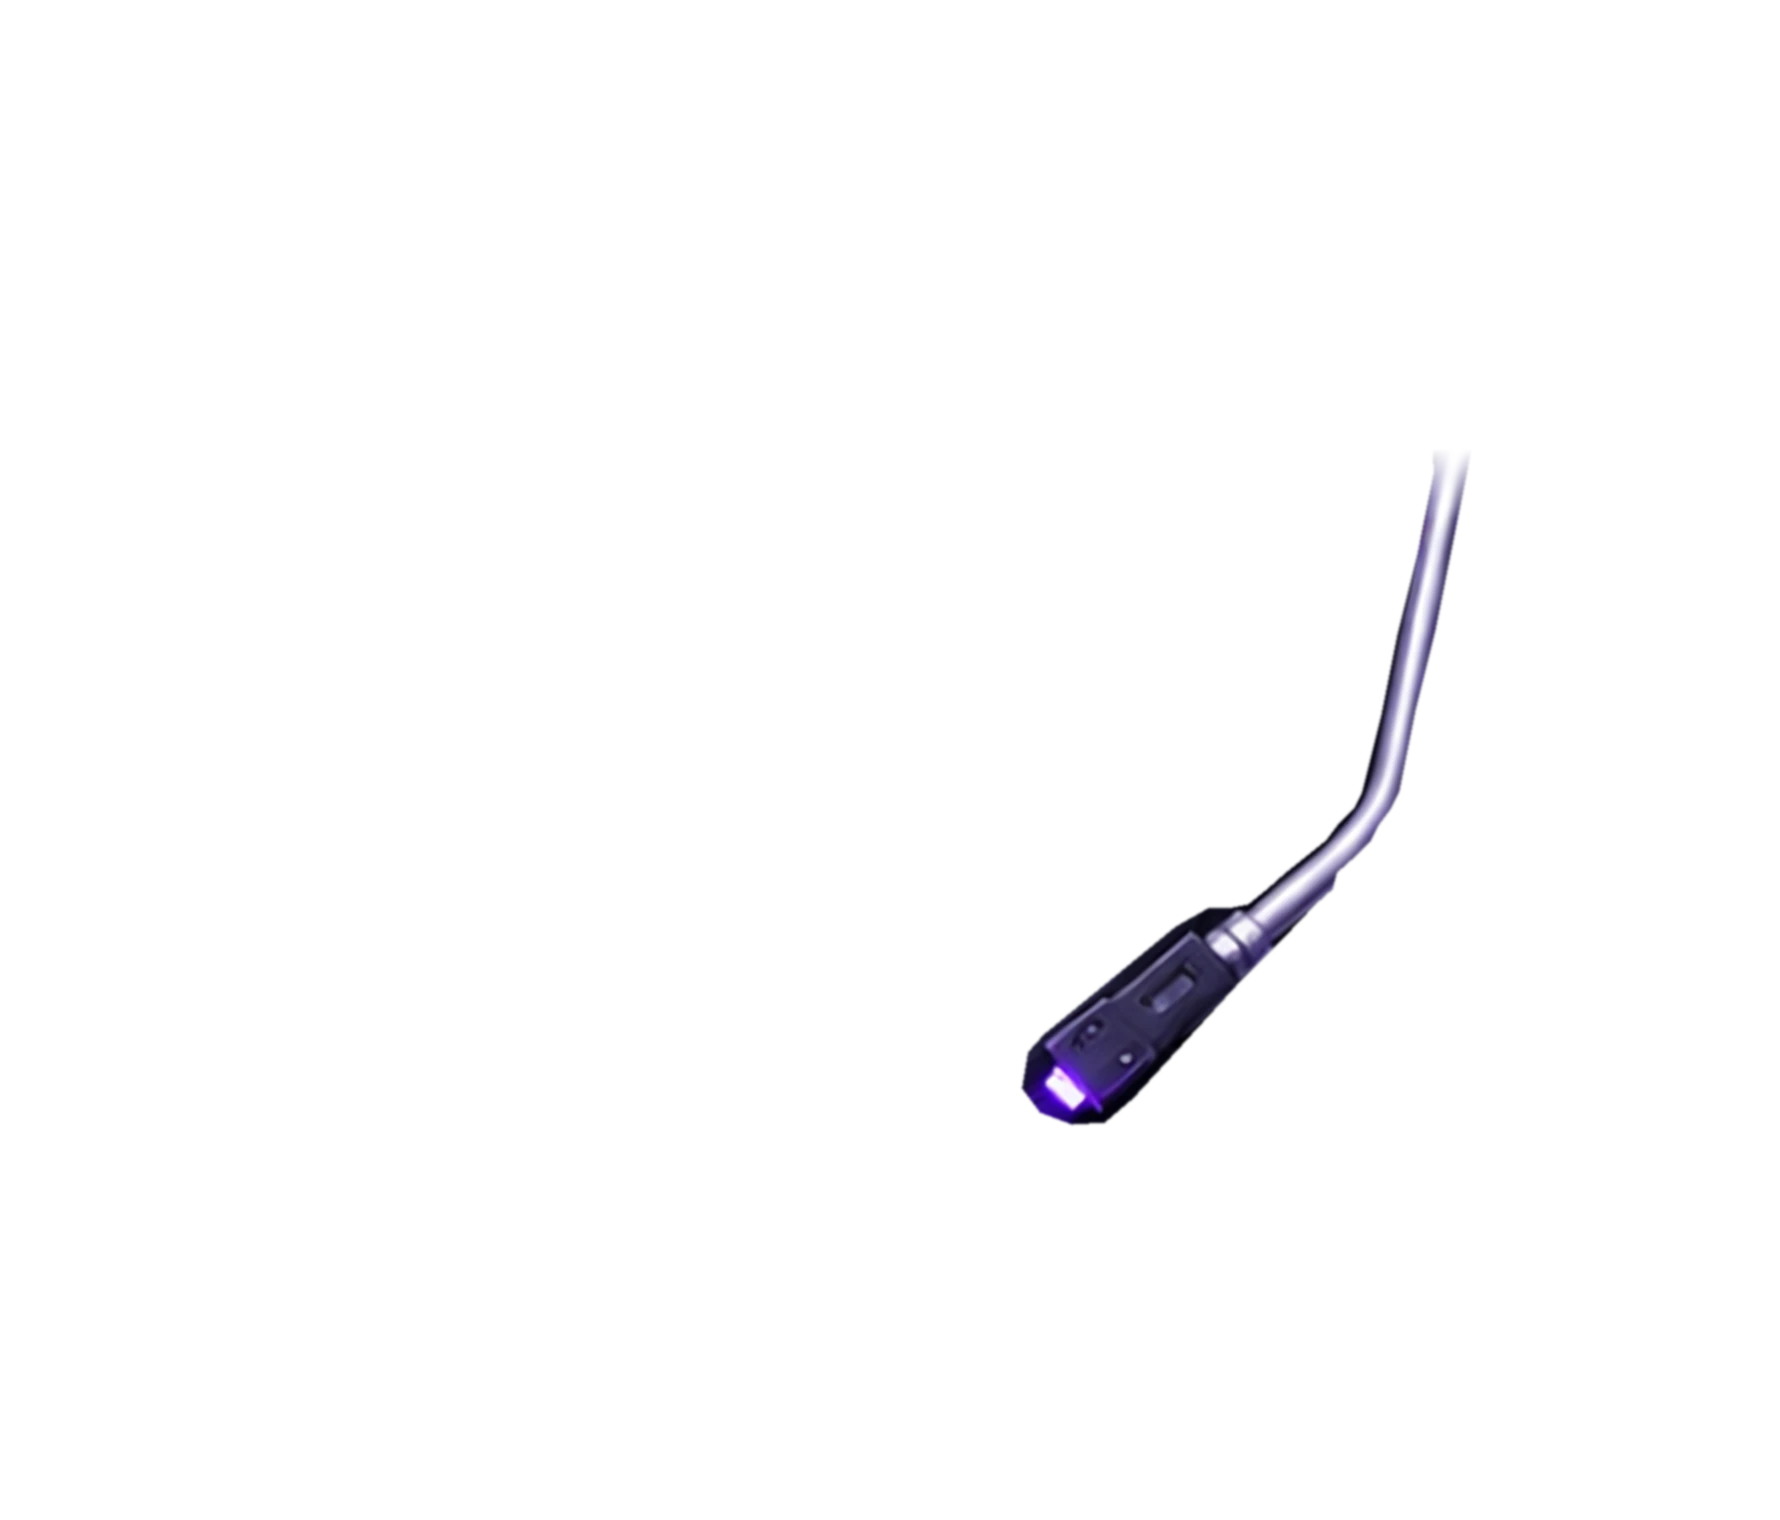
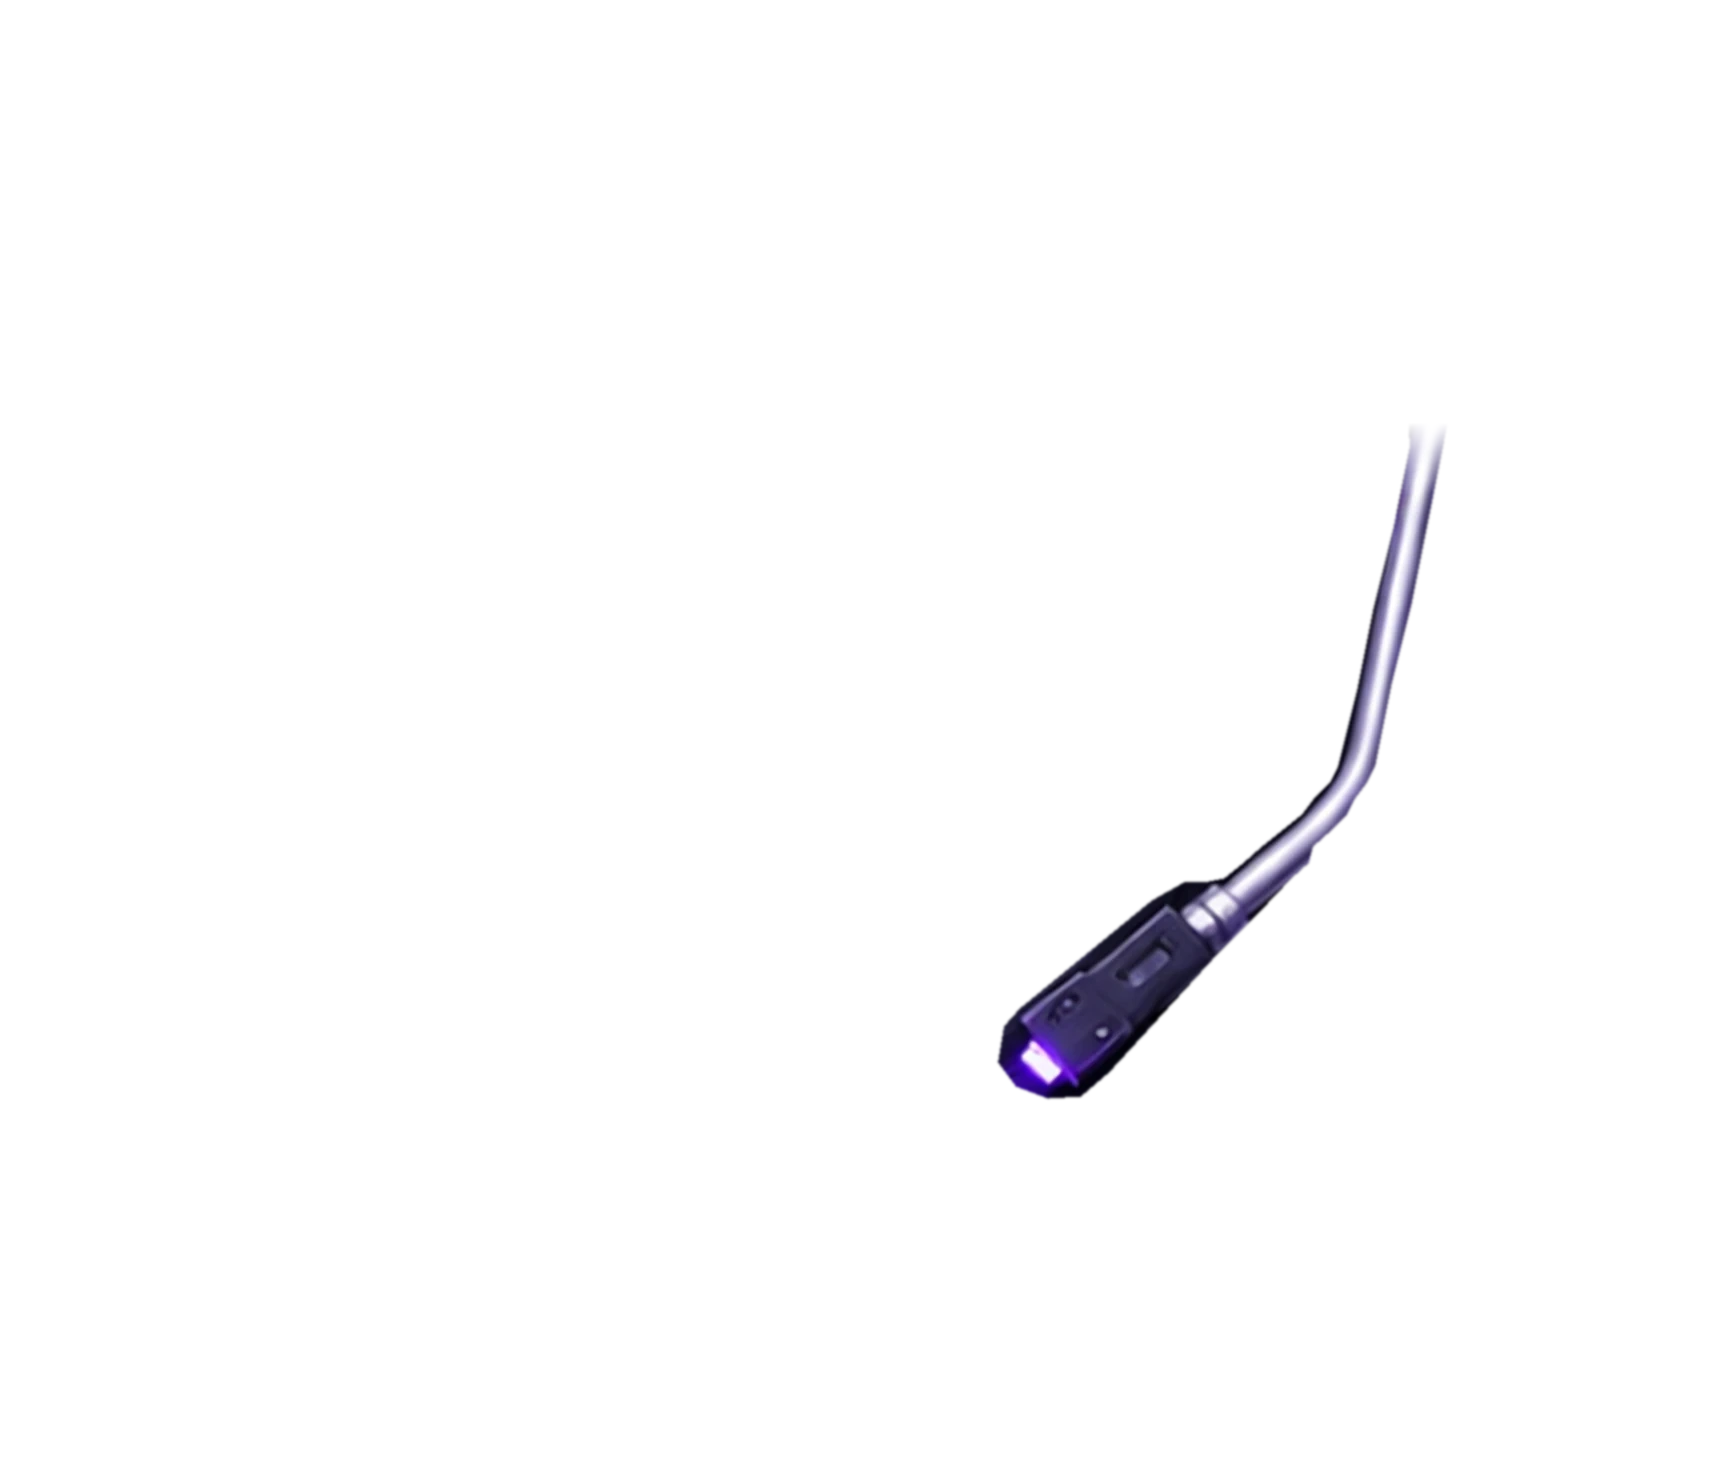
Swap in the new turntable pack with traced record clip.
Use the updated deck/arm webps and clip DsoLogo to the draft neon ring with a matching rim.

Changed region(s): [[0.5609, 0.2755, 0.8413, 0.7653]]

diff --git a/src/components/DraftTurntable.jsx b/src/components/DraftTurntable.jsx
@@ -3,9 +3,49 @@ import deckSrc from "../assets/dco-turntable-draft.webp";
 import armSrc from "../assets/dco-turntable-draft-arm.webp";
 import "./DraftTurntable.css";
 
+/*
+ * Record edge, traced from the draft's inner neon ring every 0.5°, smoothed,
+ * and inset by a constant gap. [x%, y%] of the deck image, one point per 2°.
+ */
+const RECORD_EDGE = [
+  [81.063, 46.824], [81.027, 48.343], [80.940, 49.859], [80.808, 51.368], [80.633, 52.872], [80.415, 54.367],
+  [80.153, 55.851], [79.843, 57.321], [79.483, 58.775], [79.075, 60.210], [78.621, 61.625], [78.123, 63.015],
+  [77.582, 64.383], [76.998, 65.723], [76.372, 67.036], [75.710, 68.320], [75.013, 69.575], [74.284, 70.804],
+  [73.524, 72.002], [72.734, 73.171], [71.915, 74.310], [71.064, 75.416], [70.184, 76.488], [69.273, 77.519],
+  [68.329, 78.510], [67.353, 79.455], [66.347, 80.349], [65.310, 81.194], [64.252, 81.997], [63.177, 82.761],
+  [62.085, 83.491], [60.979, 84.185], [59.855, 84.836], [58.714, 85.444], [57.555, 86.005], [56.381, 86.513],
+  [55.193, 86.969], [53.991, 87.375], [52.779, 87.729], [51.558, 88.034], [50.331, 88.292], [49.097, 88.501],
+  [47.858, 88.663], [46.617, 88.777], [45.373, 88.840], [44.128, 88.853], [42.884, 88.815], [41.643, 88.727],
+  [40.405, 88.592], [39.171, 88.410], [37.943, 88.184], [36.720, 87.913], [35.505, 87.598], [34.298, 87.239],
+  [33.102, 86.833], [31.916, 86.380], [30.743, 85.880], [29.584, 85.337], [28.438, 84.751], [27.306, 84.123],
+  [26.191, 83.450], [25.095, 82.732], [24.019, 81.971], [22.964, 81.165], [21.933, 80.314], [20.929, 79.417],
+  [19.957, 78.472], [19.017, 77.480], [18.106, 76.449], [17.221, 75.385], [16.361, 74.291], [15.528, 73.167],
+  [14.722, 72.011], [13.947, 70.823], [13.202, 69.605], [12.489, 68.358], [11.808, 67.083], [11.163, 65.778],
+  [10.560, 64.443], [10.000, 63.079], [9.486, 61.688], [9.021, 60.271], [8.604, 58.833], [8.233, 57.375],
+  [7.911, 55.899], [7.635, 54.409], [7.409, 52.908], [7.234, 51.395], [7.110, 49.875], [7.042, 48.351],
+  [7.027, 46.824], [7.064, 45.298], [7.153, 43.775], [7.289, 42.260], [7.472, 40.750], [7.700, 39.252],
+  [7.973, 37.764], [8.296, 36.291], [8.668, 34.836], [9.091, 33.402], [9.562, 31.992], [10.078, 30.605],
+  [10.634, 29.243], [11.234, 27.910], [11.883, 26.612], [12.585, 25.353], [13.334, 24.139], [14.118, 22.960],
+  [14.926, 21.811], [15.751, 20.686], [16.593, 19.585], [17.458, 18.513], [18.347, 17.473], [19.261, 16.467],
+  [20.201, 15.495], [21.162, 14.558], [22.144, 13.652], [23.143, 12.772], [24.159, 11.921], [25.196, 11.106],
+  [26.259, 10.335], [27.349, 9.620], [28.464, 8.960], [29.600, 8.354], [30.753, 7.796], [31.921, 7.283],
+  [33.102, 6.815], [34.294, 6.392], [35.498, 6.019], [36.713, 5.697], [37.936, 5.424], [39.166, 5.200],
+  [40.401, 5.023], [41.641, 4.890], [42.884, 4.803], [44.128, 4.764], [45.374, 4.772], [46.619, 4.830],
+  [47.862, 4.939], [49.102, 5.100], [50.337, 5.312], [51.565, 5.575], [52.785, 5.888], [53.996, 6.250],
+  [55.197, 6.662], [56.386, 7.122], [57.562, 7.627], [58.723, 8.179], [59.868, 8.778], [60.993, 9.430],
+  [62.095, 10.136], [63.173, 10.894], [64.228, 11.694], [65.268, 12.521], [66.300, 13.367], [67.325, 14.232],
+  [68.336, 15.127], [69.321, 16.069], [70.271, 17.062], [71.188, 18.100], [72.077, 19.176], [72.939, 20.287],
+  [73.766, 21.438], [74.552, 22.631], [75.292, 23.867], [75.985, 25.140], [76.635, 26.447], [77.241, 27.784],
+  [77.807, 29.146], [78.332, 30.532], [78.814, 31.940], [79.243, 33.373], [79.612, 34.829], [79.919, 36.304],
+  [80.178, 37.791], [80.408, 39.283], [80.620, 40.778], [80.808, 42.279], [80.954, 43.788], [81.041, 45.304],
+];
+
+const RECORD_CLIP = `polygon(${RECORD_EDGE.map(([x, y]) => `${x}% ${y}%`).join(", ")})`;
+const RIM_PATH = `M${RECORD_EDGE.map(([x, y]) => `${(x * 17.33).toFixed(1)} ${(y * 14.7).toFixed(1)}`).join("L")}Z`;
+
 /**
  * Draft 1 turntable with the existing <DsoLogo /> spinning on the platter.
- * Layers: deck → spinning logo → tonearm. Frame clips to clean rounded edges.
+ * Layers: deck → spinning logo (clipped to record edge + rim) → tonearm on top.
  */
 export function DraftTurntable({ className }) {
   return (
@@ -14,23 +54,33 @@ export function DraftTurntable({ className }) {
       role="img"
       aria-label="DCO turntable"
     >
-      <div className="dco-draft__frame">
-        <img
-          className="dco-draft__deck"
-          src={deckSrc}
-          alt=""
-          draggable={false}
-        />
+      <img
+        className="dco-draft__deck"
+        src={deckSrc}
+        alt=""
+        draggable={false}
+      />
+
+      <div className="dco-draft__record-clip" style={{ clipPath: RECORD_CLIP }}>
         <div className="dco-draft__record">
           <DsoLogo className="dco-draft__logo" />
         </div>
-        <img
-          className="dco-draft__arm"
-          src={armSrc}
-          alt=""
-          draggable={false}
-        />
+        <svg
+          className="dco-draft__rim"
+          viewBox="0 0 1733 1470"
+          preserveAspectRatio="none"
+          aria-hidden="true"
+        >
+          <path d={RIM_PATH} />
+        </svg>
       </div>
+
+      <img
+        className="dco-draft__arm"
+        src={armSrc}
+        alt=""
+        draggable={false}
+      />
     </div>
   );
 }

diff --git a/src/components/DraftTurntable.css b/src/components/DraftTurntable.css
@@ -1,28 +1,22 @@
 /*
- * Clean rounded turntable frame.
- * Original webps + overflow clip — no flood-fill / soft-mask artifacts.
+ * Draft 1 turntable with the spinning DsoLogo.
+ * Deck images are 1733×1470: cropped to the chassis with square corners.
+ * Record edge follows the draft's inner neon ring via RECORD_EDGE clip.
  */
 
 .dco-draft {
+  container-type: inline-size;
+  position: relative;
   width: 100%;
   max-width: 760px;
+  aspect-ratio: 1733 / 1470;
   margin-inline: auto;
+  user-select: none;
   background: transparent;
 }
 
-.dco-draft__frame {
-  position: relative;
-  width: 100%;
-  aspect-ratio: 445 / 380;
-  /* Match chassis corner radius (~12.5% of short side) */
-  border-radius: 10.5% / 12.5%;
-  overflow: hidden;
-  background: transparent;
-  /* Clean purple rim */
-  box-shadow:
-    inset 0 0 0 1.5px rgba(216, 180, 254, 0.75),
-    0 0 0 1px rgba(139, 92, 246, 0.55),
-    0 0 14px rgba(124, 58, 237, 0.4);
+.dco-draft--sidebar {
+  max-width: none;
 }
 
 .dco-draft__deck,
@@ -33,41 +27,53 @@
   height: 100%;
   display: block;
   pointer-events: none;
-  user-select: none;
 }
 
-/* Hide baked-in center label under our spinning DsoLogo */
-.dco-draft__deck {
-  -webkit-mask-image: radial-gradient(
-    circle 36.2% at 44.494% 47.237%,
-    transparent 99.2%,
-    #000 100%
-  );
-  mask-image: radial-gradient(
-    circle 36.2% at 44.494% 47.237%,
-    transparent 99.2%,
-    #000 100%
-  );
+/*
+ * Record edge follows the draft's inner neon ring so strobe dots stay uncovered
+ * and the gap to the ring is even. Clip + rim from RECORD_EDGE in the JSX.
+ */
+.dco-draft__record-clip {
+  position: absolute;
+  inset: 0;
+  pointer-events: none;
 }
 
+/*
+ * Logo matched to the ring's perspective (4.72° tilt, 0.9639 height/width)
+ * and sized so its disc reaches just past the clip.
+ */
 .dco-draft__record {
   position: absolute;
-  left: 44.494%;
-  top: 47.237%;
-  width: 95.15%;
+  left: 44.128%;
+  top: 46.824%;
+  width: 99.785%;
   aspect-ratio: 1;
   translate: -50% -50%;
-  pointer-events: none;
-  z-index: 2;
-  border-radius: 50%;
-  overflow: hidden;
+  rotate: -4.72deg;
+  scale: 1 0.9639;
+}
+
+.dco-draft__rim {
+  position: absolute;
+  inset: 0;
+  width: 100%;
+  height: 100%;
+  overflow: visible;
+}
+
+.dco-draft__rim path {
+  fill: none;
+  stroke: #c4b5fd;
+  stroke-width: 39;
+  stroke-linejoin: round;
 }
 
 .dco-draft .dco-draft__logo {
   display: block;
   width: 100%;
   height: 100%;
-  animation: dco-draft-spin 1.8s linear infinite;
+  animation: dco-draft-spin 1.8s linear infinite; /* 33⅓ RPM */
 }
 
 .dco-draft .dco-draft__logo .dso-logo-shine-spin {
@@ -76,22 +82,12 @@
 
 .dco-draft__arm {
   z-index: 3;
-}
-
-.dco-draft--sidebar {
-  max-width: none;
-}
-
-.dco-draft--sidebar .dco-draft__frame {
-  box-shadow:
-    inset 0 0 0 1.5px rgba(216, 180, 254, 0.7),
-    0 0 0 1px rgba(139, 92, 246, 0.5),
-    0 0 12px rgba(124, 58, 237, 0.35);
+  filter: drop-shadow(0.7cqw 1.4cqw 0.9cqw rgba(0, 0, 0, 0.55));
 }
 
 @keyframes dco-draft-spin {
   to {
-    transform: rotate(360deg);
+    rotate: 360deg;
   }
 }
 
